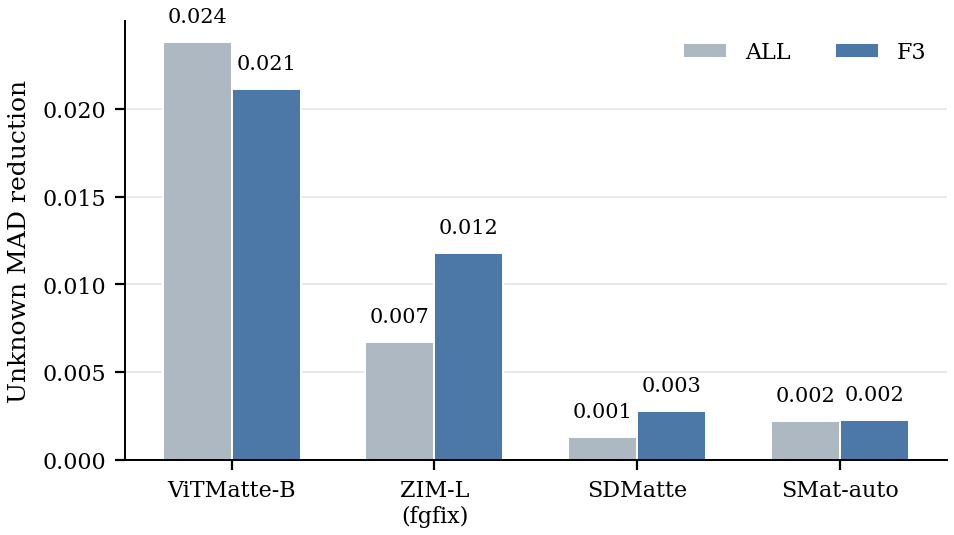
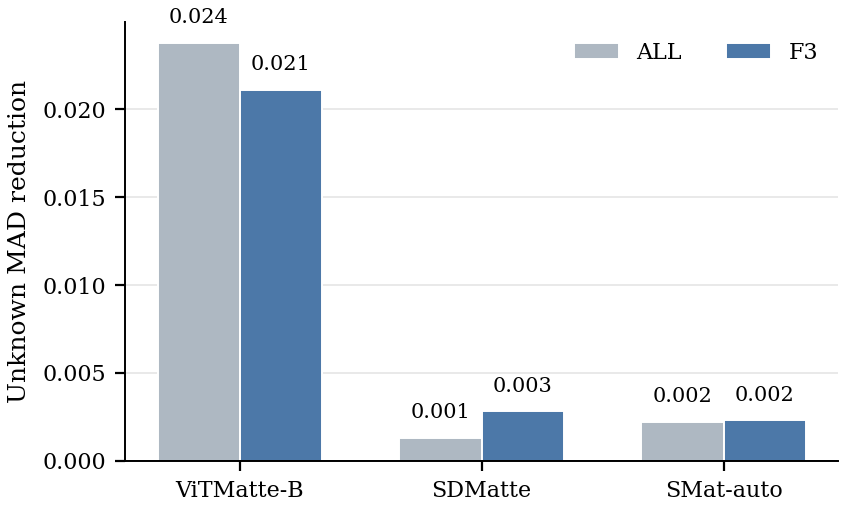
xiugai5

diff --git a/main.tex b/main.tex
@@ -44,12 +44,12 @@
 	\pagenumbering{Roman} %摘要页码为大写罗马数字
 
 	%填写中文摘要内容和关键字
-	\begin{cnabstract}{图像抠图；深度学习；植物图像；方法复现}
-		图像抠图旨在预测图像中每个像素的前景透明度（alpha matte），从而将目标从背景中自然分离出来，是图像编辑与视觉认知中的一项基础任务。近年来，基于深度学习与大规模预训练模型的抠图方法取得了显著进展。本文面向植物图像这一具体场景，在统一评测协议下复现并对比了四种范式迥异的代表性方法：基于三分图（trimap）精修的 ViTMatte、零样本可提示的 ZIM、扩散式的 SDMatte，以及自动与交互统一的 SMat。所有模型在 PM 植物数据集（150 张，统一缩放至 $1024^2$）上以完全相同的真值评测，并以统一三分图（trimap）划出前景边缘的过渡带（即 Unknown 区域，alpha 介于 0 与 1 之间、最难估计的像素），分别在全图与该过渡带上报告 SAD/MSE/MAD 指标——前者反映整体前景判定，后者专门度量边缘细节质量。实验表明：在给定 trimap 先验时，ViTMatte 取得最佳的全图精度（SAD 25.1）；在三种 trimap-free 方法中，扩散式 SDMatte 表现最稳健（全图 SAD 44.3、零图形-背景反转）。进一步的 failure case 分析显示，植物场景中的主要误差可分为主体识别、前景范围、边缘细结构、半透明/绒毛和孔洞/网状结构五类，其中定位层错误主要由主体满框与类内相似干扰触发，而结构层错误即使在给定 trimap 时仍会出现。
+	\begin{cnabstract}{图像抠图；植物图像；方法复现；失败分析}
+		图像抠图旨在预测图像中每个像素的前景透明度（alpha matte），从而将目标从背景中自然分离出来，是图像编辑与视觉认知中的一项基础任务。本文面向植物图像这一同质背景突出、细碎结构密集的具体场景，在统一评测协议下复现并对比四种范式迥异的代表性方法：基于三分图（trimap）精修的 ViTMatte、零样本可提示的 ZIM、扩散式的 SDMatte，以及自动与交互统一的 SMat，借以对照“给定前景下的精修”与“自主前景选择”两条技术路线。所有模型在 PM 植物数据集（150 张，统一缩放至 $1024^2$）上以完全相同的真值评测，并以统一 trimap 划出前景边缘的过渡带（即 Unknown 区域，alpha 介于 0 与 1 之间、最难估计的像素），在全图与该过渡带双口径上报告 SAD/MSE/MAD 等指标——前者度量主体识别与图形-背景分离，后者专门度量边缘细节质量；同时在 AIM-500、MicroMat 等原始基准上做跨数据集自验，确认实现与评测流程的可信度。实验表明：在给定 trimap 先验时，ViTMatte 取得最佳的全图精度（SAD 25.1）；三种 trimap-free 方法中扩散式 SDMatte 最稳健（全图 SAD 44.3、零图形-背景反转），且其 Unknown 区精度（SAD 23.9）已与 ViTMatte 持平，说明 trimap-free 方法的主要差距来自前景范围判定而非边缘刻画，而 ZIM 因软 matte 头在满框主体上频繁发生图形-背景反转，全图误差最高（SAD 93.2）。在此基础上，本文把植物抠图失败系统归为主体识别、前景范围、边缘细结构、半透明/绒毛、孔洞/网状五类，并区分定位层与结构层误差：定位层错误主要由主体满框与类内相似干扰触发，结构层的边缘细结构则是跨范式共有的瓶颈，即便给定 trimap 仍然存在。补充标注的植物认知挑战样本进一步复现了上述失败模式，针对边缘细结构设计的轻量后处理可缓解结构层糊边、但不能替代更强的目标选择前端。结果表明，植物抠图同时要求任务驱动的目标选择、同质背景中的图形-背景分离与极细结构上的可靠 alpha 恢复，而非单纯的边缘细化问题。
 	\end{cnabstract}
 	%填写英文摘要内容和关键字
-	\begin{enabstract}{Image Matting; Deep Learning; Plant Images; Reproduction}
-		Image matting aims to predict the per-pixel foreground opacity (alpha matte) of an image so as to naturally separate the target from the background, which is a fundamental task in image editing and visual cognition. Recently, matting methods based on deep learning and large-scale pre-trained models have achieved remarkable progress. Focusing on the specific scenario of plant images, this report reproduces and compares four matting methods of distinct paradigms under a unified protocol: trimap-based ViTMatte, zero-shot promptable ZIM, diffusion-based SDMatte, and SMat that unifies automatic and interactive matting. All models are evaluated on the PM plant dataset (150 images resized to $1024^2$) against identical ground truth. A unified trimap delineates the foreground-boundary transition band (the unknown region, where alpha lies between 0 and 1 and is hardest to estimate); we report SAD/MSE/MAD over both the whole image (reflecting overall foreground decision) and this band (specifically measuring edge-detail quality). With a trimap prior, ViTMatte attains the best whole-image accuracy (SAD 25.1); among the three trimap-free models, the diffusion-based SDMatte is the most robust (whole-image SAD 44.3, zero figure-ground inversion). Further failure-case analysis groups plant matting errors into five categories: subject identification, foreground extent, fine boundary structures, translucent/fuzzy edges, and hole-like or reticulated structures.
+	\begin{enabstract}{Image Matting; Plant Images; Reproduction; Failure Analysis}
+		Image matting aims to predict the per-pixel foreground opacity (alpha matte) of an image so as to naturally separate the target from the background, which is a fundamental task in image editing and visual cognition. Focusing on plant images---a scenario marked by homogeneous backgrounds and densely intricate fine structures---this report reproduces and compares four matting methods of distinct paradigms under a unified protocol: trimap-based ViTMatte, zero-shot promptable ZIM, diffusion-based SDMatte, and SMat that unifies automatic and interactive matting, so as to contrast two routes: refining a given foreground versus autonomous foreground selection. All models are evaluated on the PM plant dataset (150 images resized to $1024^2$) against identical ground truth; a unified trimap delineates the foreground-boundary transition band (the unknown region, where alpha lies between 0 and 1 and is hardest to estimate), and we report SAD/MSE/MAD over both the whole image (measuring subject identification and figure-ground separation) and this band (measuring edge-detail quality), additionally cross-validating fidelity on original benchmarks such as AIM-500 and MicroMat. Results show that with a trimap prior ViTMatte attains the best whole-image accuracy (SAD 25.1); among the three trimap-free models, diffusion-based SDMatte is the most robust (whole-image SAD 44.3, zero figure-ground inversion) and its unknown-region accuracy (SAD 23.9) already matches ViTMatte, indicating that the main gap of trimap-free methods stems from foreground-extent decision rather than edge delineation, whereas ZIM---whose soft matte head frequently inverts figure and ground on full-frame subjects---yields the highest whole-image error (SAD 93.2). We further group plant-matting failures into five categories---subject identification, foreground extent, fine boundary structures, translucent/fuzzy edges, and hole-like or reticulated structures---distinguishing localization-layer errors (triggered by full-frame subjects and intra-class similarity) from structural-layer errors, of which fine boundary structure is a cross-paradigm bottleneck that persists even with a trimap. Additionally annotated cognitive challenge samples reproduce these failure modes, and a lightweight post-processing tailored to fine boundaries alleviates structural blurring but cannot replace a stronger foreground-selection front end. These findings show that plant matting jointly requires task-driven target selection, figure-ground separation in homogeneous backgrounds, and reliable alpha recovery on extremely fine structures, rather than being merely an edge-refinement problem.
 	\end{enabstract}
 
 	%生成目录
@@ -374,21 +374,23 @@
 	\textbf{无泄漏设计（关键）}：引导信号只用输入原图，过渡带只由模型自身输出导出，\textbf{全程不使用真值 alpha、不使用统一 trimap、不使用任何被测模型的输出}。因此它是一个可在真实部署中直接套用的纯后处理，对四种范式使用同一套参数、一视同仁，不偏袒任何模型。为剥离定位层失败（F1/F2）对边缘指标的串扰，trimap-free 模型取其 headline 配置（ZIM 取反转校正后的 fgfix、SMat 取 auto），使前后对比集中反映边缘质量本身。
 
 	\subsection{结果}
-	表~\ref{tab:refine} 给出四个模型在精修前后于 Unknown 区域的指标（全 150 张记为 ALL，边缘细结构类记为 F3），图~\ref{fig:refine_gain} 汇总 Unknown MAD 的下降量，图~\ref{fig:refine} 给出 F3 样本的精修前后定性对比。
+	表~\ref{tab:refine} 给出四个模型在精修前后于 Unknown 区域的指标（全 150 张记为 ALL，边缘细结构类记为 F3）；考虑到 ZIM 的反转校正属于事后处理，图~\ref{fig:refine_gain} 仅汇总不含该补丁的三个配置的 Unknown MAD 下降量，图~\ref{fig:refine} 给出 F3 样本的精修前后定性对比。
 
 	\input{tables/refine.tex}
 
 	\begin{figure}[htbp]
 		\centering
 		\includegraphics[width=0.76\linewidth]{figures/refine_gain.pdf}
-		\caption{边界精修带来的 Unknown MAD 下降量。ALL 表示全 150 张，F3 表示边缘细结构子集；柱越高表示误差下降越多。收益主要集中在 F3 子集，且 ViTMatte 与 ZIM 的软边收紧最明显。}
+		\caption{边界精修带来的 Unknown MAD 下降量。ALL 表示全 150 张，F3 表示边缘细结构子集；柱越高表示误差下降越多。图中去除了采用事后反转校正的 ZIM 配置，仅比较不含该补丁的配置。}
 		\label{fig:refine_gain}
 	\end{figure}
 
 	\begin{figure}[ht]
 		\centering
-		\includegraphics[width=0.98\linewidth]{figures/refine.pdf}
-		\caption{边界精修前后定性对比（裁剪到前景外接框，目标失败类 F3 边缘细结构样本：PM 75 镂空裂叶、挑战集 AIM-2 蕨类羽枝、PM 94 穗状羽叶）。列依次为：输入图、真值 alpha、ViTMatte 精修前、ViTMatte 精修后（+GF）、SMat-auto 精修前、SMat 精修后。精修后细枝、羽状叶片与背景的软边收紧、更贴合真值，实心区域不受影响。}
+		\subfloat[75（PM，镂空裂叶）]{\includegraphics[width=0.74\linewidth]{figures/refine_75.pdf}}\\
+		\subfloat[AIM-2（挑战集，蕨类羽枝）]{\includegraphics[width=0.74\linewidth]{figures/refine_aim2.pdf}}\\
+		\subfloat[94（PM，穗状羽叶）]{\includegraphics[width=0.74\linewidth]{figures/refine_94.pdf}}
+		\caption{边界精修前后定性对比（裁剪到前景外接框，每个样本一张 $3\times2$ 子图）。每张子图中：第 1 列为原图与真值 alpha，第 2 列为 ViTMatte 精修前/后，第 3 列为 SDMatte 精修前/后。SDMatte 软边最厚，精修前细枝/孔洞被糊成大片灰色、精修后软边收紧、间隙重新打开，更贴合真值；实心区域不受影响。}
 		\label{fig:refine}
 	\end{figure}
 